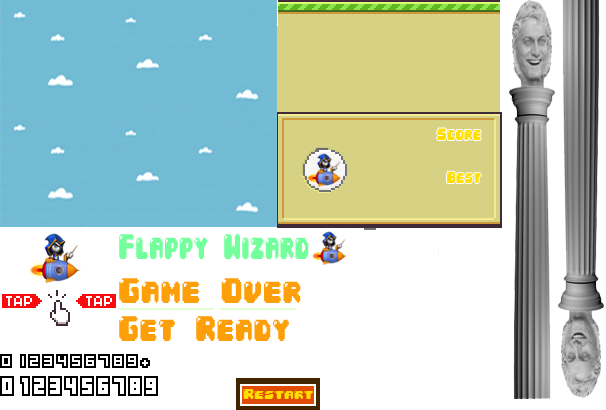
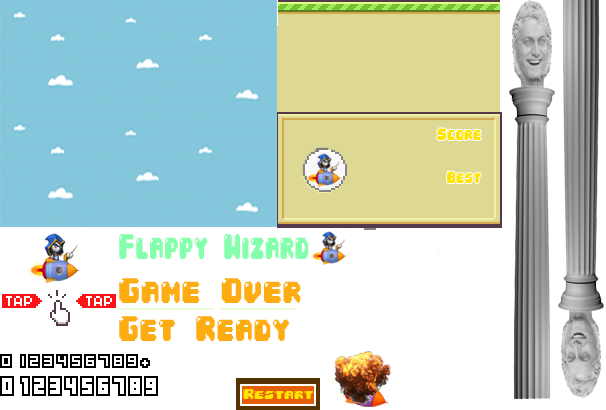
fixed pipe orientation added wizardCrash img to sprite edit collision formula

Changed region(s): [[0.5347, 0.8488, 0.6535, 0.9951]]

diff --git a/js/main.js b/js/main.js
@@ -65,7 +65,6 @@ var canvas,
 
             var n = this.animation[this.frame];
             s_bird[n].draw(ctx, -s_bird[n].width / 2, -s_bird[n].height / 2);
-
             ctx.beginPath();
             ctx.arc(0, 0, this.radius, 0, 2 * Math.PI);
             ctx.restore();
@@ -81,12 +80,12 @@ var canvas,
 
         update: function() {
             if(frames % 100 === 0) {
-                var topPositionOfPipe = height - (s_pipeSouth.height + s_fg.height + 120 + 200 * Math.random());
+                var topPositionOfPipe = height - (s_pipeNorth.height + s_fg.height + 120 + 200 * Math.random());
                 this._pipes.push({
                     x: 500,
                     y: topPositionOfPipe,
-                    width: s_pipeSouth.width,
-                    height: s_pipeSouth.height
+                    width: s_pipeNorth.width,
+                    height: s_pipeNorth.height
                 });
             }
 
@@ -105,10 +104,10 @@ var canvas,
                     var differenceY1 = bird.y - closestY1;
                     var differenceY2 = bird.y - closestY2;
 
-                    var distance1 = differenceX * differenceX + differenceY1 * differenceY1;
-                    var distance2 = differenceX * differenceX + differenceY2 * differenceY2;
+                    var distance1 = differenceX * differenceX + differenceY1 * differenceY1 - 10;
+                    var distance2 = differenceX * differenceX + differenceY2 * differenceY2 - 10;
 
-                    var radius = bird.radius * bird.radius;
+                    var radius = bird.radius * bird.radius - 10;
 
                     if(radius > distance1 || radius > distance2) {
                         currentState = states.Score;
@@ -128,7 +127,7 @@ var canvas,
             for(var i = 0, len = this._pipes.length; i < len; i++) {
                 var p = this._pipes[i];
                 s_pipeSouth.draw(ctx, p.x, p.y);
-                s_pipeSouth.draw(ctx, p.x, p.y + 80 + p.height);
+                s_pipeNorth.draw(ctx, p.x, p.y + 80 + p.height);
             }
         }
     };
@@ -197,7 +196,7 @@ function main() {
             height: s_buttons.Restart.height,
         };
         run();
-    }
+    };
 
     img.src = 'images/sheet.png'
 }
@@ -207,7 +206,7 @@ function run() {
         update();
         render();
         window.requestAnimationFrame(loop, canvas);
-    }
+    };
 
     window.requestAnimationFrame(loop, canvas);
 }

diff --git a/js/view/sprite.js b/js/view/sprite.js
@@ -12,7 +12,8 @@ var
     s_splash,
     s_buttons,
     s_numberS,
-    s_numberB;
+    s_numberB,
+    s_wizardCrash;
 
 
 function Sprite(img, x, y, width, height) {
@@ -36,6 +37,7 @@ function initSprites(img) {
     s_bg.color = "#83C7DC";
     s_fg = new Sprite(img, 139, 0, 111,  56);
 
+    s_wizardCrash = new Sprite(img,393, 409, 63, 59 ); // 331.351
     s_pipeNorth = new Sprite(img, 251, 0, 26, 200);
     s_pipeSouth = new Sprite(img, 277, 0, 26, 200);
     s_text = {
